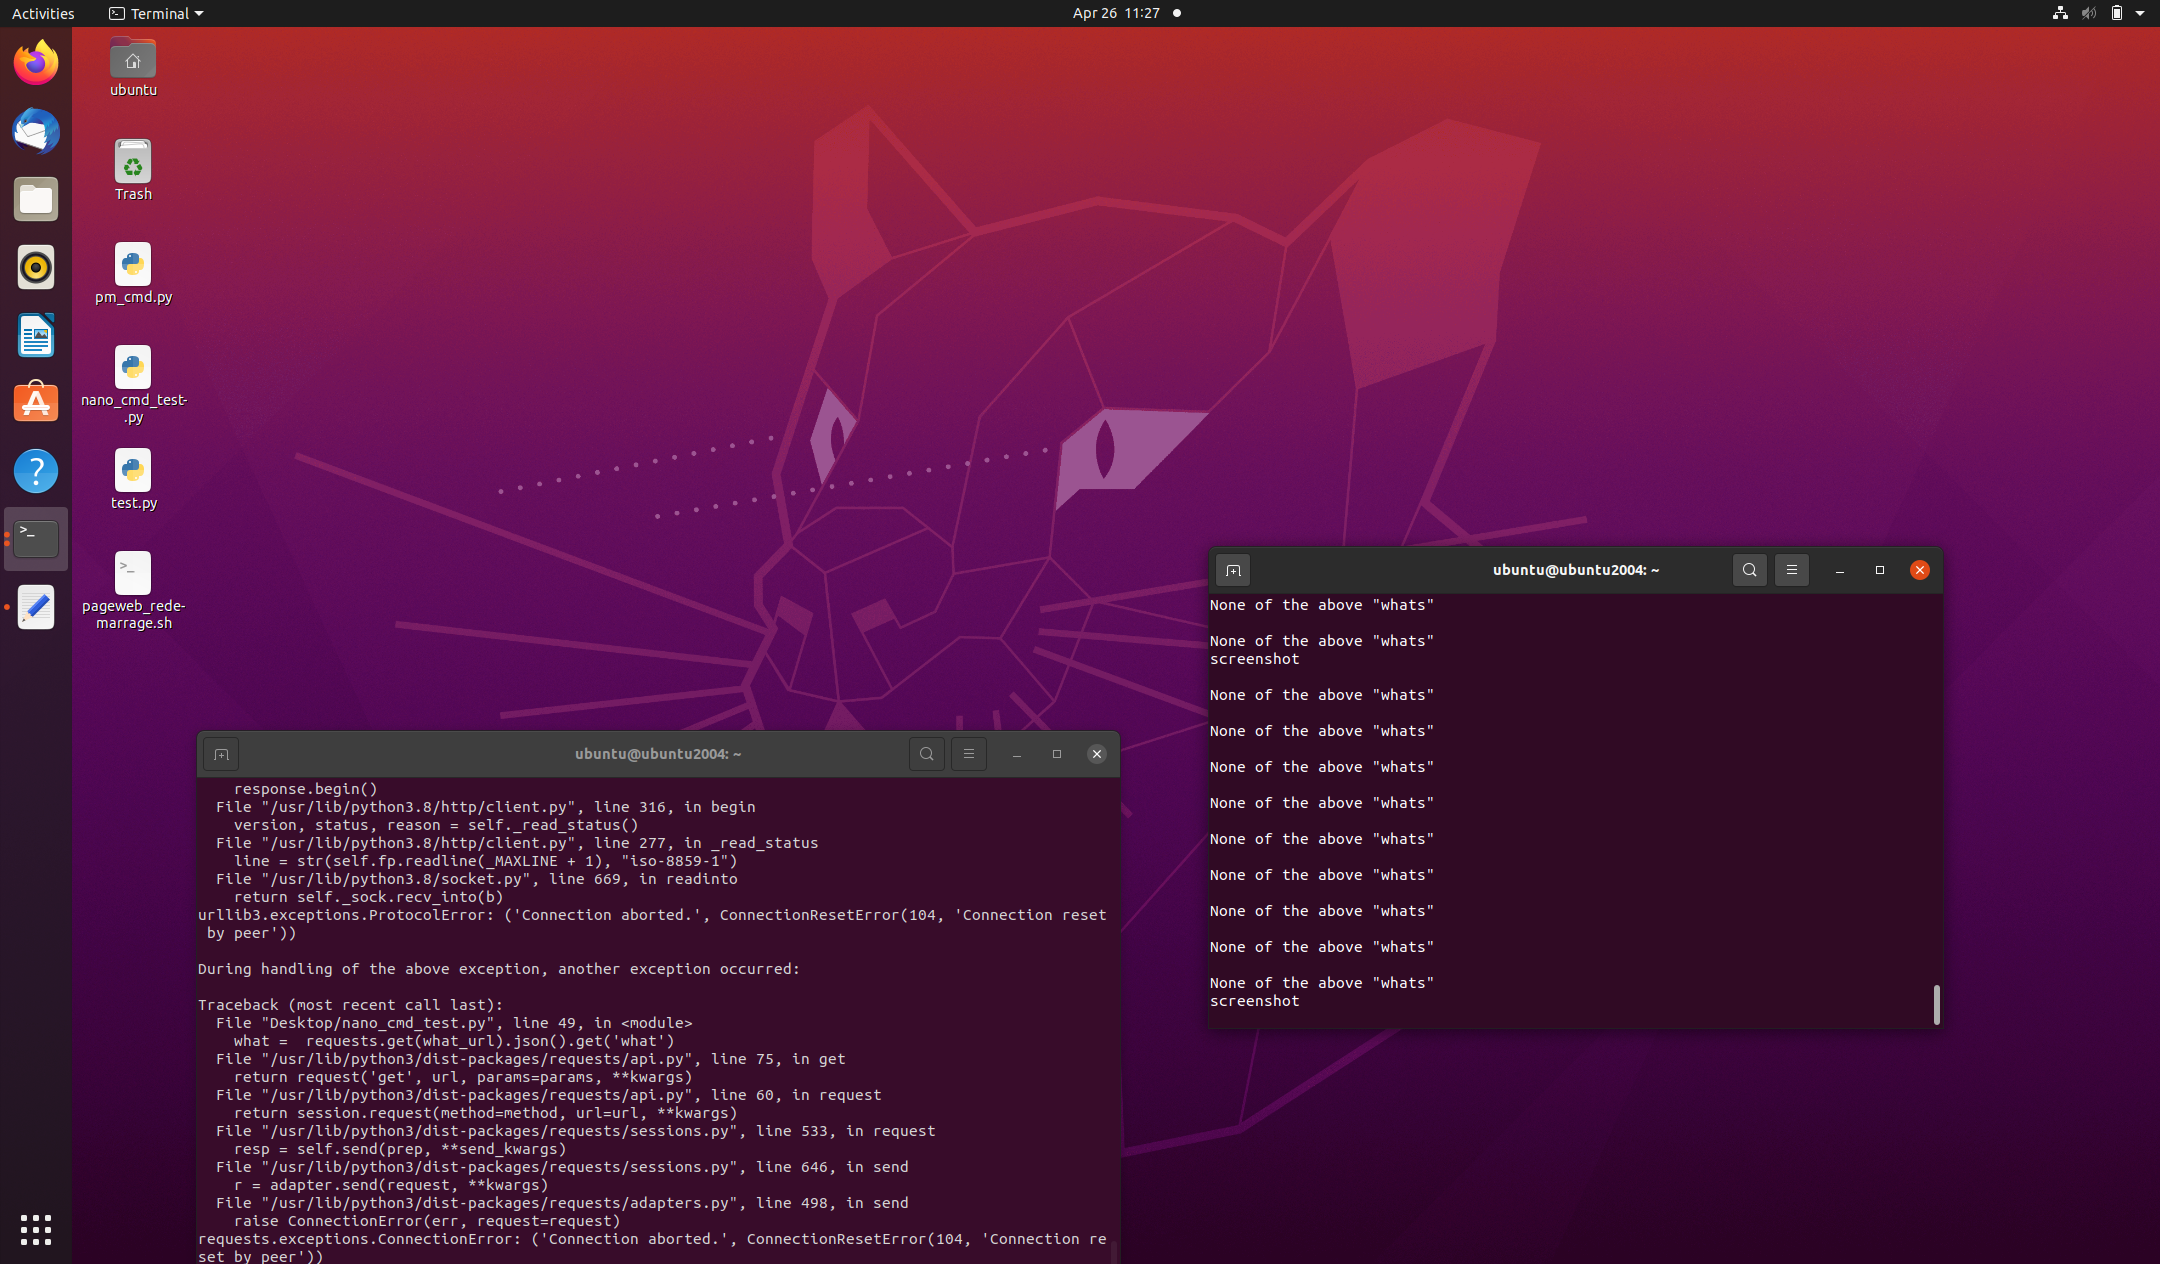
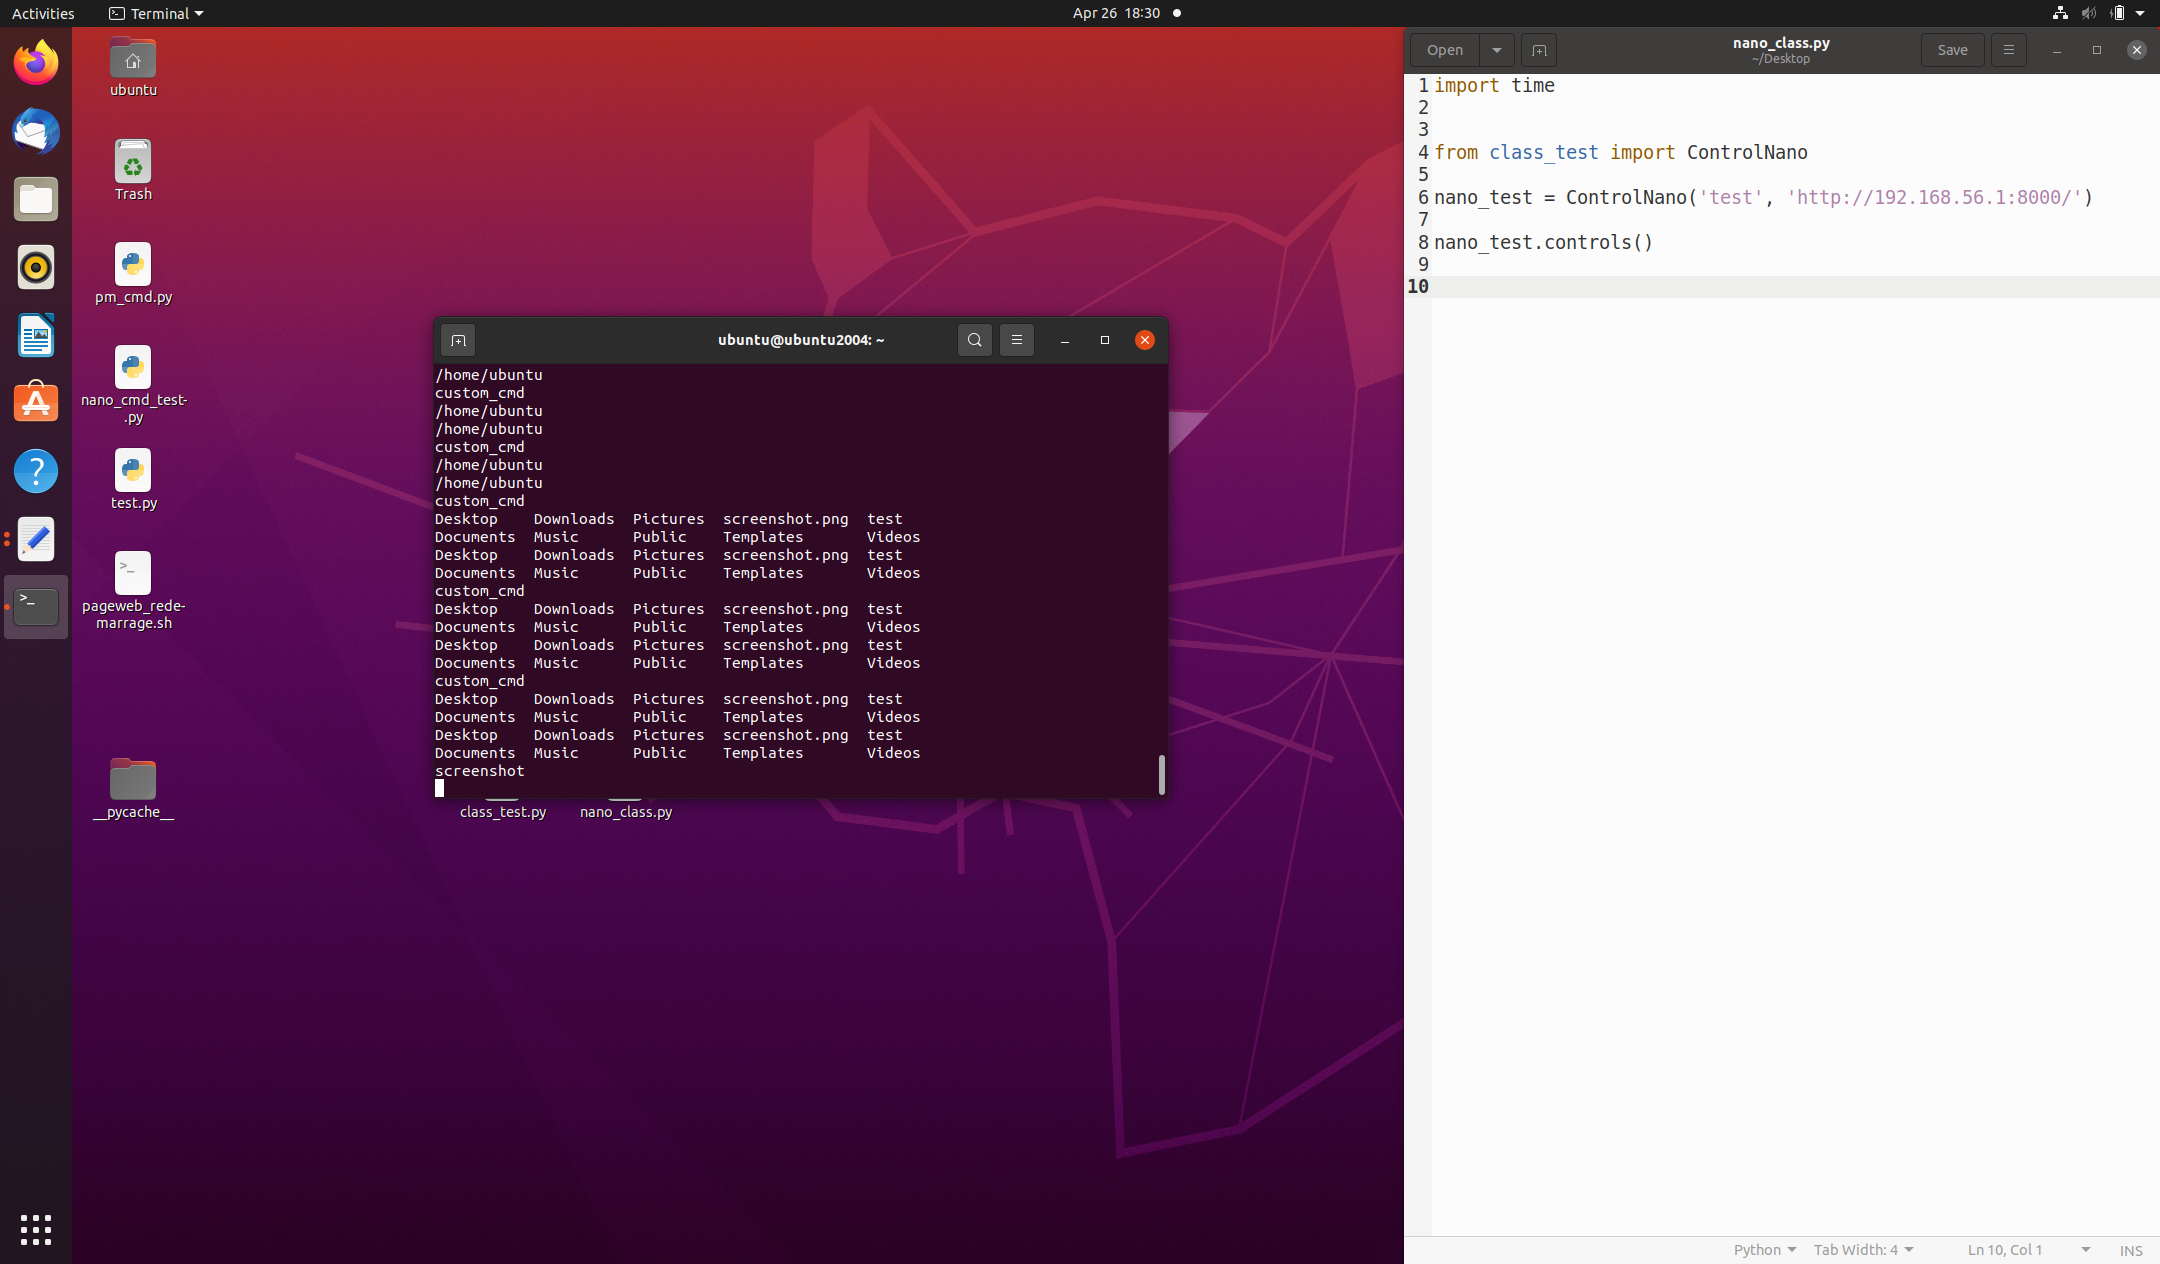
class based nano and show_dashboard

diff --git a/templates/nano_reactive.html b/templates/nano_reactive.html
@@ -19,7 +19,7 @@
             <input id="dashboard-link" type="text" class="form-control" aria-describedby="inputGroup-sizing-default">
         </div>
         {% endif %}
-        <button type="submit" {% if functionality == 'screenshot' %} onClick="fullwindowpopup()" {% endif %} class="btn btn-primary ml-3">{{ functionality|title }}</button>
+        <button type="submit" {% if functionality == 'screenshot' %} {% endif %} class="btn btn-primary ml-3">{{ functionality|title }}</button>
     </form >
 </div>
 
@@ -41,18 +41,6 @@
 <script src="https://cdn.jsdelivr.net/npm/popper.js@1.12.9/dist/umd/popper.min.js" integrity="sha384-ApNbgh9B+Y1QKtv3Rn7W3mgPxhU9K/ScQsAP7hUibX39j7fakFPskvXusvfa0b4Q" crossorigin="anonymous"></script>
 <script src="https://cdn.jsdelivr.net/npm/bootstrap@4.0.0/dist/js/bootstrap.min.js" integrity="sha384-JZR6Spejh4U02d8jOt6vLEHfe/JQGiRRSQQxSfFWpi1MquVdAyjUar5+76PVCmYl" crossorigin="anonymous"></script>
 <script>
-    function fullwindowpopup(){
-        window.open("../nano/{{hostname}}/screenshot","bfs","fullscreen")
-    }
-    var requests = [
-    {url: '/api/nano/{{ hostname }}',
-     data: {'what': 'show_dashboard' }
-    },
-    {url: '/api/nano/{{ hostname }}/functionality',
-     data: {'what': 'show_dashboard',
-            'dashboard_link': $('#dashboard-link').val()}
-    }];
-
     {% for functionality in functionalities %}
         {% if functionality == 'show_dashboard' %}
             $(document).on("submit","#{{functionality}}",function(e){
@@ -82,7 +70,7 @@
                     e.preventDefault();
                     $.ajax({
                         type: 'POST',
-                        url: requests[0].url,
+                        url: '/api/nano/{{ hostname }}',
                         data: {'what': '{{functionality}}'},
                         success: function (data) {
                             {% if functionality == 'custom_cmd'%}
@@ -90,11 +78,27 @@
                             {% endif %}
                             console.log('what sent')
                             }
-                        })
+                        });
+                    {% if functionality == 'screenshot' %}
+                        window.open("../nano/{{hostname}}/screenshot","bfs","fullscreen");
+                    {% endif %}
             });
         {% endif %}
     {% endfor %}
 
+    // refreshing because while using terminal and using navigator's back, terminal stays getting
+    // every 20s, get /nano/<hostname> that empties nano.what and nano.custom_cmd
+    function refresh() {
+        $.ajax({
+                    type: 'GET',
+                    url: '{{ hostname }}',
+                    success: function (data) {
+                        console.log('gor')
+                    }
+                });
+    }
+    refresh()
+    setInterval(refresh,20000);//
 </script>
 
 

diff --git a/nanoiot_code/nanoiot_class.py b/nanoiot_code/nanoiot_class.py
@@ -1,0 +1,110 @@
+import requests
+import os
+import subprocess
+import time
+
+
+class ControlNano:
+    def __init__(self, nano_name, url):
+        self._nano_name = nano_name
+        self._url = url
+        self._what_url = self._url + 'api/nano/' + self._nano_name
+        self._show_dashboard_url = self._url + self._nano_name + '/show_dashboard'
+        self._cmd_old = ''
+        self._terminal_url = url + 'api/nano/' + nano_name + '/terminal'
+        self._show_dashboard_url = url + 'api/nano/' + nano_name + '/show_dashboard'
+
+    def what(self):
+        return requests.get(self._what_url).json().get('what')
+
+    def custom_cmd(self):
+        _cmd = requests.get(self._terminal_url).json().get('custom_cmd')
+        _old_cmd = ''
+        if _cmd != _old_cmd and _cmd != None:
+            os.system(_cmd)
+            _suc_cmd = subprocess.run(_cmd, stdout=subprocess.PIPE, shell=True).stdout.decode()
+            _err_cmd = subprocess.run(_cmd, stderr=subprocess.PIPE, shell=True).stderr.decode()
+            result = _suc_cmd if _suc_cmd != '' else _err_cmd
+            payload = {'custom_cmd_output': result, 'custom_cmd': _cmd}
+            _old_cmd = _cmd
+            requests.post(self._terminal_url, data=payload)
+
+    def screenshot(self):
+        _name = 'screenshot.png'
+        _command = f'gnome-screenshot --file="{_name}"'
+        subprocess.call(_command, shell=True)
+        with open(_name, 'rb') as f:
+            _image_data = f.read()
+            _image = {'screenshot': _image_data}
+            requests.post(self._what_url, files=_image)
+
+    def show_dashboard(self):
+        _dashboard_link = requests.get(self._show_dashboard_url).json().get('dashboard_link')
+        with open('./Desktop/pageweb_redemarrage.sh', 'r') as test:
+            lines = test.readlines()
+        lines[lines.index('firefox\n') + 1] = _dashboard_link + '\n'
+        with open('./Desktop/pageweb_redemarrage.sh', 'w') as test:
+            test.writelines(lines)
+
+        data = {'what': ''}
+        requests.post(self._what_url, data)
+
+    def reboot(self):
+        requests.post(self._what_url, data={'what': ''})
+        _reboot_cmd = 'sudo reboot'
+        subprocess.run(_reboot_cmd, stdout=subprocess.PIPE, shell=True).stdout.decode()
+
+    def show_video(self):
+        print('show the video')
+        data = {'what': ''}
+        requests.post(self._what_url, data)
+
+    def controls(self):
+        while True:
+            try:
+                what = self.what()
+                if what == 'show_video':
+                    self.show_video()
+
+                elif what == 'show_dashboard':
+                    self.show_dashboard()
+
+                elif what == 'reboot':
+                    self.reboot()
+
+                elif what == 'screenshot':
+                    self.screenshot()
+
+                elif what == 'custom_cmd':
+                    self.custom_cmd()
+
+                time.sleep(2)
+            except:
+                print('no')
+                time.sleep(2)
+
+
+
+
+
+
+
+
+
+
+
+
+
+
+
+
+
+
+
+
+
+
+
+
+
+

diff --git a/NANOS/views.py b/NANOS/views.py
@@ -13,13 +13,13 @@ from API.models import NanoIoT
 class Index(View):
     def get(self, request):
         return render(request, 'index.html')
-
-
 class Nano(View):
     def get(self, request, hostname):
         functionalities = ['custom_cmd', 'reboot', 'screenshot', 'show_dashboard', 'show_video']
         nano = NanoIoT.objects.all().get(hostname=hostname)
         nano.what = ''
+        nano.custom_cmd = None
+        nano.save()
         return render(request, 'nano_reactive.html',
                       {'functionalities': functionalities,
                        'hostname': hostname})

diff --git a/nanoiot_code.py b/nanoiot_code.py
@@ -4,9 +4,9 @@ import subprocess
 import time
 
 """ '/' important at the end of the link"""
-
+url = 'http://192.168.56.1:8000/'
 nano_name = 'test'
-what_url = 'http://192.168.56.1:8000/api/nano/' + nano_name
+what_url = url + 'api/nano/' + nano_name
 show_dashboard_url = 'http://192.168.56.1:8000/api/nano/' + nano_name + '/show_dashboard'
 # status_url=
 cmd_old = ''

diff --git a/nanoiot_code/nano_control.py b/nanoiot_code/nano_control.py
@@ -1,0 +1,6 @@
+from nanoiot_class import ControlNano
+
+nano_test = ControlNano('test', 'http://192.168.56.1:8000/')
+
+nano_test.controls()
+
